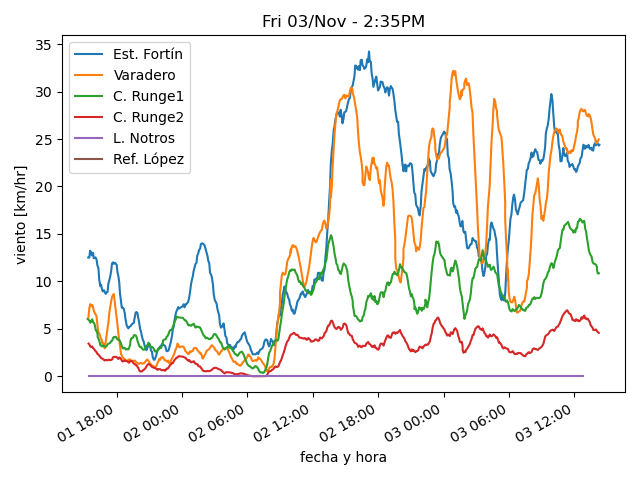
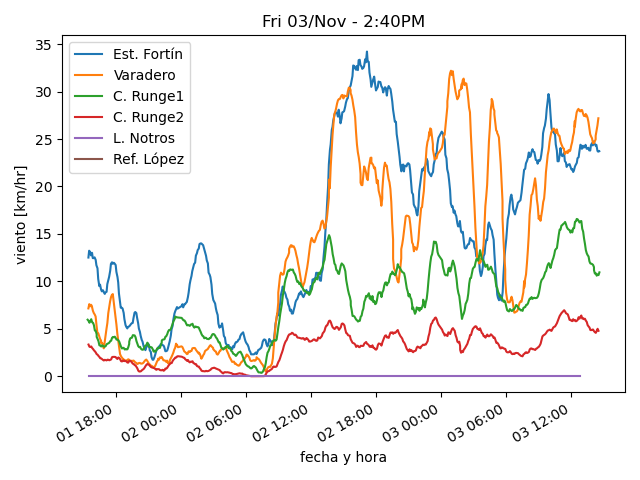
actualiza datos

diff --git a/estaciones/estacion3.html b/estaciones/estacion3.html
@@ -18,32 +18,32 @@
     </tr>
     <tr>
      <td class="stats_data">
-      2:14PM
+      2:34PM
      </td>
     </tr>
     <tr>
      <td class="stats_data">
-      11.0⁰C
+      12.4⁰C
      </td>
     </tr>
     <tr>
      <td class="stats_data">
-      3.3⁰C
+      3.8⁰C
      </td>
     </tr>
     <tr>
      <td class="stats_data">
-      58.8%
+      56.0%
      </td>
     </tr>
     <tr>
      <td class="stats_data">
-      1010.02hPa
+      1009.92hPa
      </td>
     </tr>
     <tr>
      <td class="stats_data">
-      7.8/11.5 km/hr WNW
+      9.8/13.8 km/hr NW
      </td>
     </tr>
     <tr>
@@ -53,12 +53,12 @@
     </tr>
     <tr>
      <td class="stats_data">
-      6.0
+      9.0
      </td>
     </tr>
     <tr>
      <td class="stats_data">
-      550.9 W/m²
+      821.1 W/m²
      </td>
     </tr>
    </tbody>

diff --git a/estaciones/estacion1.html b/estaciones/estacion1.html
@@ -18,22 +18,22 @@
     </tr>
     <tr>
      <td class="stats_data">
-      2:18PM
+      2:34PM
      </td>
     </tr>
     <tr>
      <td class="stats_data">
-      14.9⁰C
+      15.0⁰C
      </td>
     </tr>
     <tr>
      <td class="stats_data">
-      2.4⁰C
+      2.7⁰C
      </td>
     </tr>
     <tr>
      <td class="stats_data">
-      43.0%
+      43.7%
      </td>
     </tr>
     <tr>
@@ -43,7 +43,7 @@
     </tr>
     <tr>
      <td class="stats_data">
-      16.9/24.9 km/hr WNW
+      10.2/22.0 km/hr W
      </td>
     </tr>
     <tr>
@@ -53,12 +53,12 @@
     </tr>
     <tr>
      <td class="stats_data">
-      6.5
+      6.6
      </td>
     </tr>
     <tr>
      <td class="stats_data">
-      888.0 W/m²
+      896.0 W/m²
      </td>
     </tr>
    </tbody>

diff --git a/estaciones/estacion4.html b/estaciones/estacion4.html
@@ -18,22 +18,22 @@
     </tr>
     <tr>
      <td class="stats_data">
-      2:14PM
+      2:29PM
      </td>
     </tr>
     <tr>
      <td class="stats_data">
-      11.8⁰C
+      13.2⁰C
      </td>
     </tr>
     <tr>
      <td class="stats_data">
-      2.9⁰C
+      3.7⁰C
      </td>
     </tr>
     <tr>
      <td class="stats_data">
-      54.3%
+      52.2%
      </td>
     </tr>
     <tr>
@@ -43,7 +43,7 @@
     </tr>
     <tr>
      <td class="stats_data">
-      2.7/4.3 km/hr WSW
+      2.9/3.9 km/hr SSW
      </td>
     </tr>
     <tr>
@@ -53,12 +53,12 @@
     </tr>
     <tr>
      <td class="stats_data">
-      5.0
+      8.0
      </td>
     </tr>
     <tr>
      <td class="stats_data">
-      553.0 W/m²
+      872.5 W/m²
      </td>
     </tr>
    </tbody>

diff --git a/estaciones/estacion2.html b/estaciones/estacion2.html
@@ -18,12 +18,12 @@
     </tr>
     <tr>
      <td class="stats_data">
-      2:14PM
+      2:29PM
      </td>
     </tr>
     <tr>
      <td class="stats_data">
-      11.3⁰C
+      11.6⁰C
      </td>
     </tr>
     <tr>
@@ -33,7 +33,7 @@
     </tr>
     <tr>
      <td class="stats_data">
-      64.2%
+      62.9%
      </td>
     </tr>
     <tr>
@@ -43,7 +43,7 @@
     </tr>
     <tr>
      <td class="stats_data">
-      24.1/28.5 km/hr NW
+      25.1/29.0 km/hr NNW
      </td>
     </tr>
     <tr>
@@ -53,12 +53,12 @@
     </tr>
     <tr>
      <td class="stats_data">
-      8.0
+      7.0
      </td>
     </tr>
     <tr>
      <td class="stats_data">
-      828.1 W/m²
+      766.4 W/m²
      </td>
     </tr>
    </tbody>
